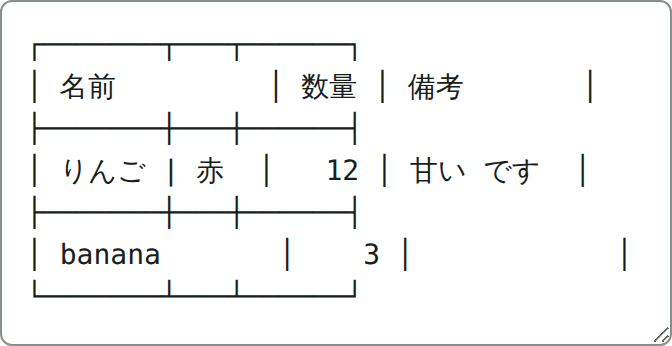
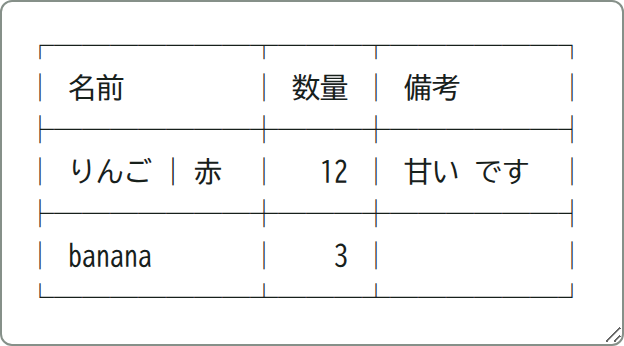
docs(readme): 画像を BIZ UDGothic で撮り直し、撮影時だけフォントを読み込ませる

diff --git a/README.md b/README.md
@@ -156,7 +156,7 @@ banana;3;
 
 ![罫線文字の表（単線）の出力欄](docs/images/output-box.png)
 
-- 画像は、Chrome で拡張を実際に動かした画面です（既定の設定: 単線・行の間に罫線あり・曖昧幅 2）。
+- 画像は、Chrome で拡張を実際に動かした画面です。フォントは BIZ UDGothic で撮っています（既定の設定: 単線・行の間に罫線あり・曖昧幅 2）。
 - テキストの見え方は、表示するフォントで変わります。罫線文字が半角で表示される環境では、設定の「曖昧幅の文字」で幅 1 を選んでください。
 - 下のテキスト見本は、曖昧幅 1（`ambiguousWide: false`）で生成したものです。
 
@@ -347,6 +347,12 @@ node scripts/gen-eaw.mjs <EastAsianWidth.txt>  # 文字幅データ src/lib/eaw-
 ```
 
 `npm run screenshots` は Playwright の Chromium（初回は `npx playwright install chromium`）で拡張を読み込みます。拡張は headless では読み込めないため（headed で起動します）、画面のない環境では `xvfb-run -a npm run screenshots` で実行してください。
+
+画像は等幅の和文フォント BIZ UDGothic（SIL Open Font License。[google/fonts の `ofl/bizudgothic/`](https://github.com/google/fonts/tree/main/ofl/bizudgothic)）で撮っています。和文の等幅フォントが無い環境では罫線が揃わないため、フォントを入手し、そのディレクトリを `SCREENSHOT_FONT_DIR` に渡してください。撮影するブラウザにだけ読み込ませ、システムのフォント設定は変えません。フォントファイルはリポジトリに含めません。
+
+```sh
+SCREENSHOT_FONT_DIR=/path/to/bizudgothic xvfb-run -a npm run screenshots
+```
 
 - 仕様: [docs/spec.md](docs/spec.md)
 - 設計: [docs/design.md](docs/design.md)
